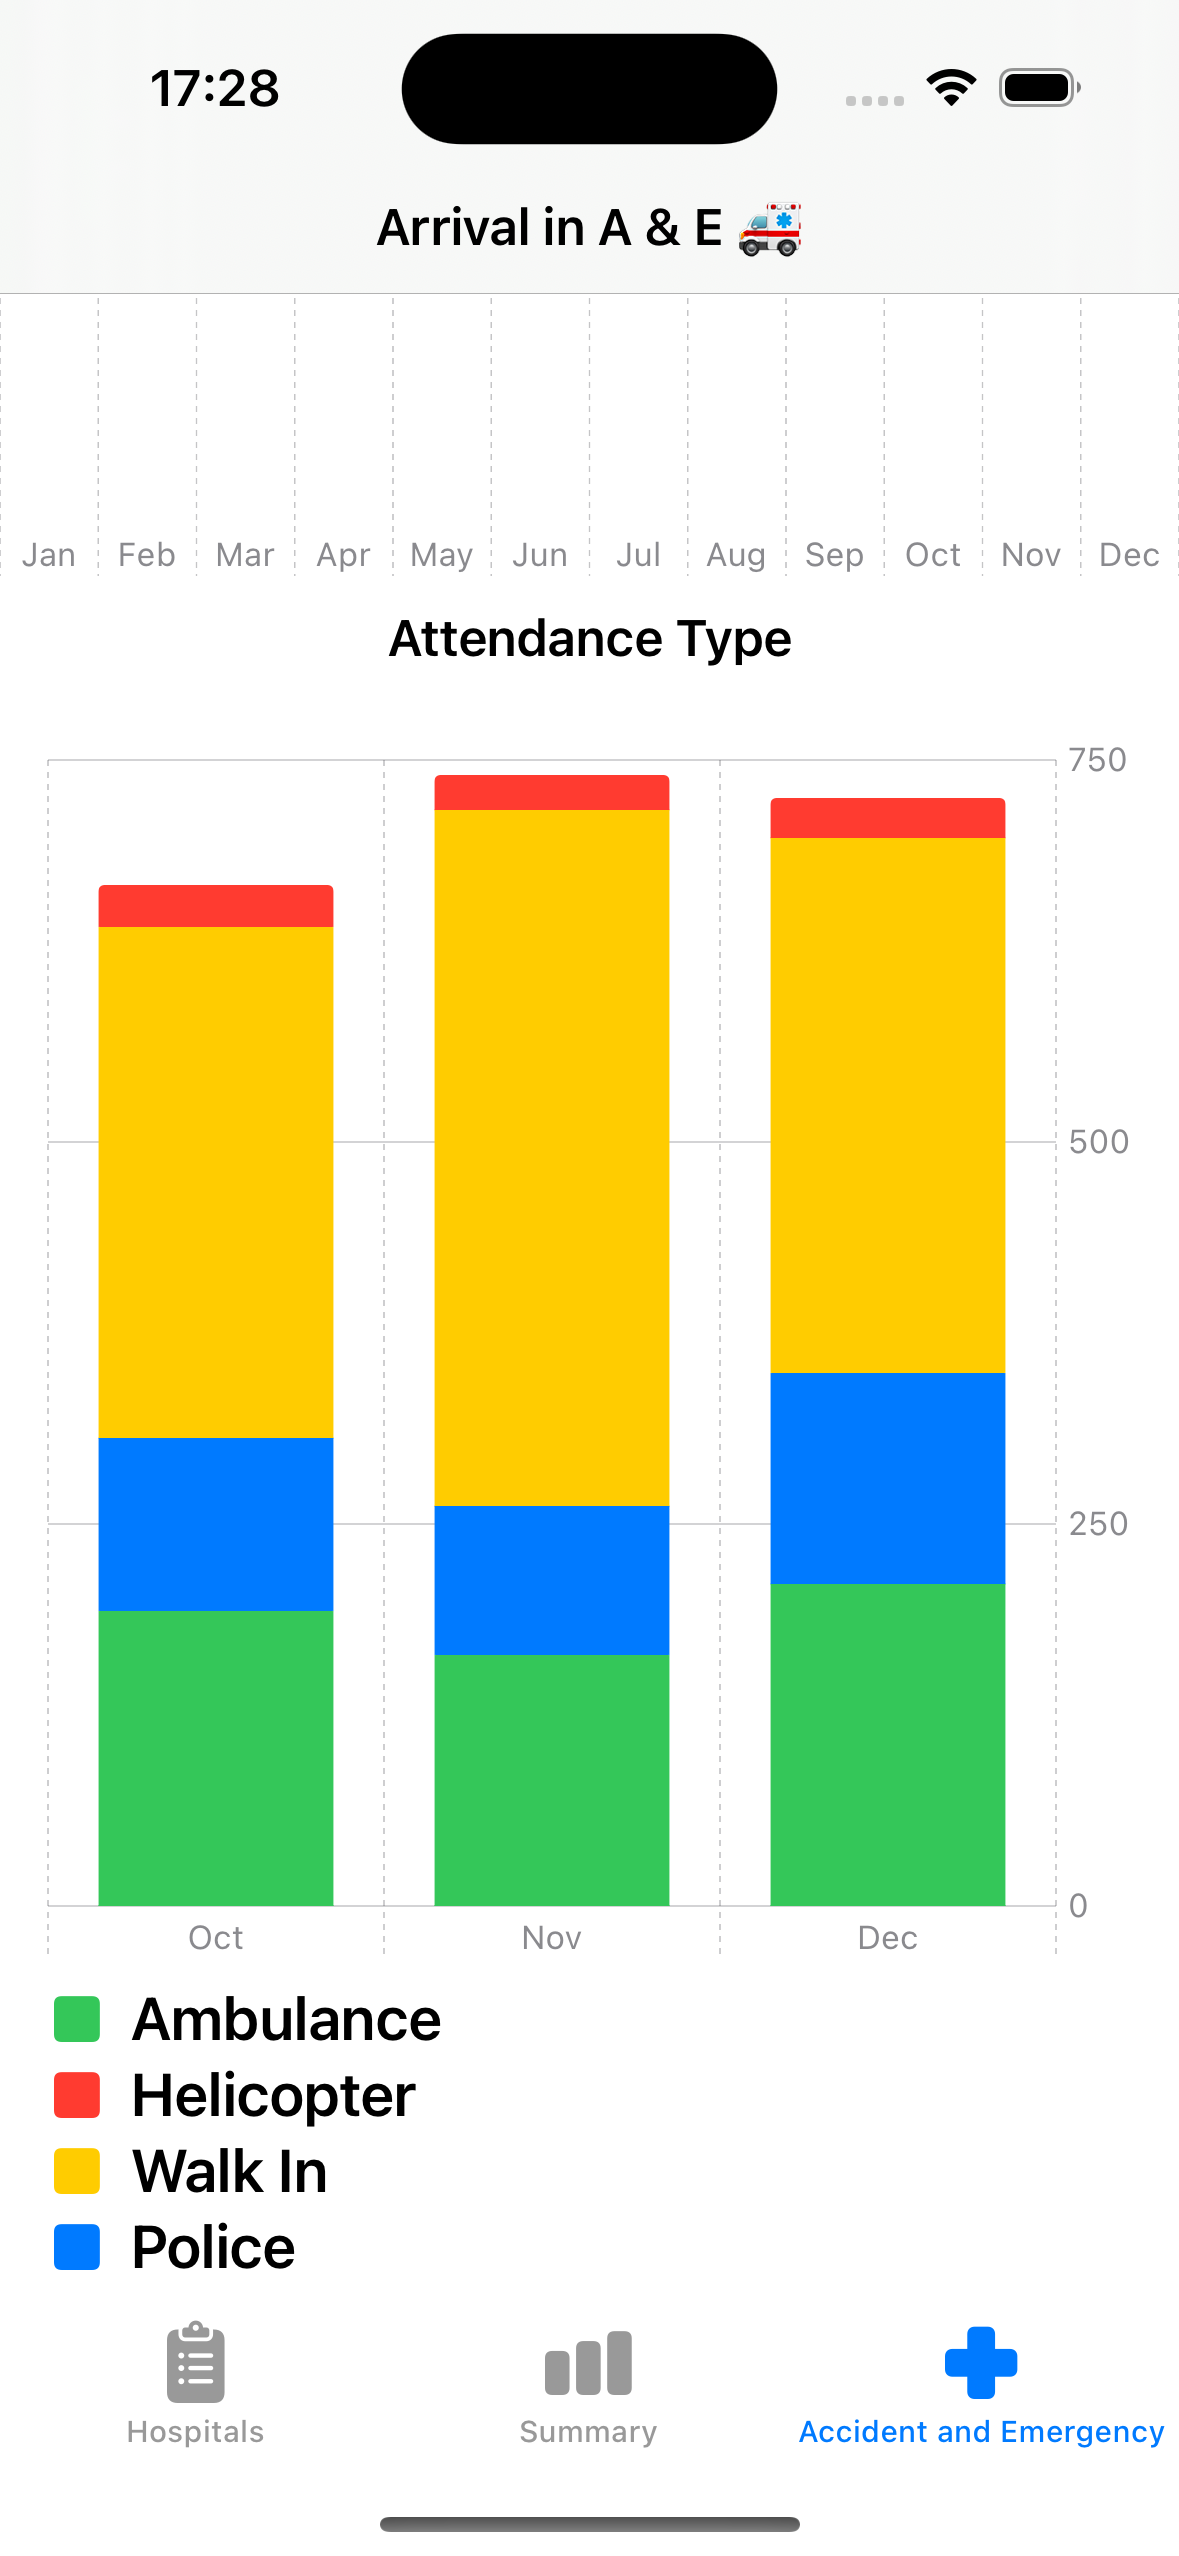
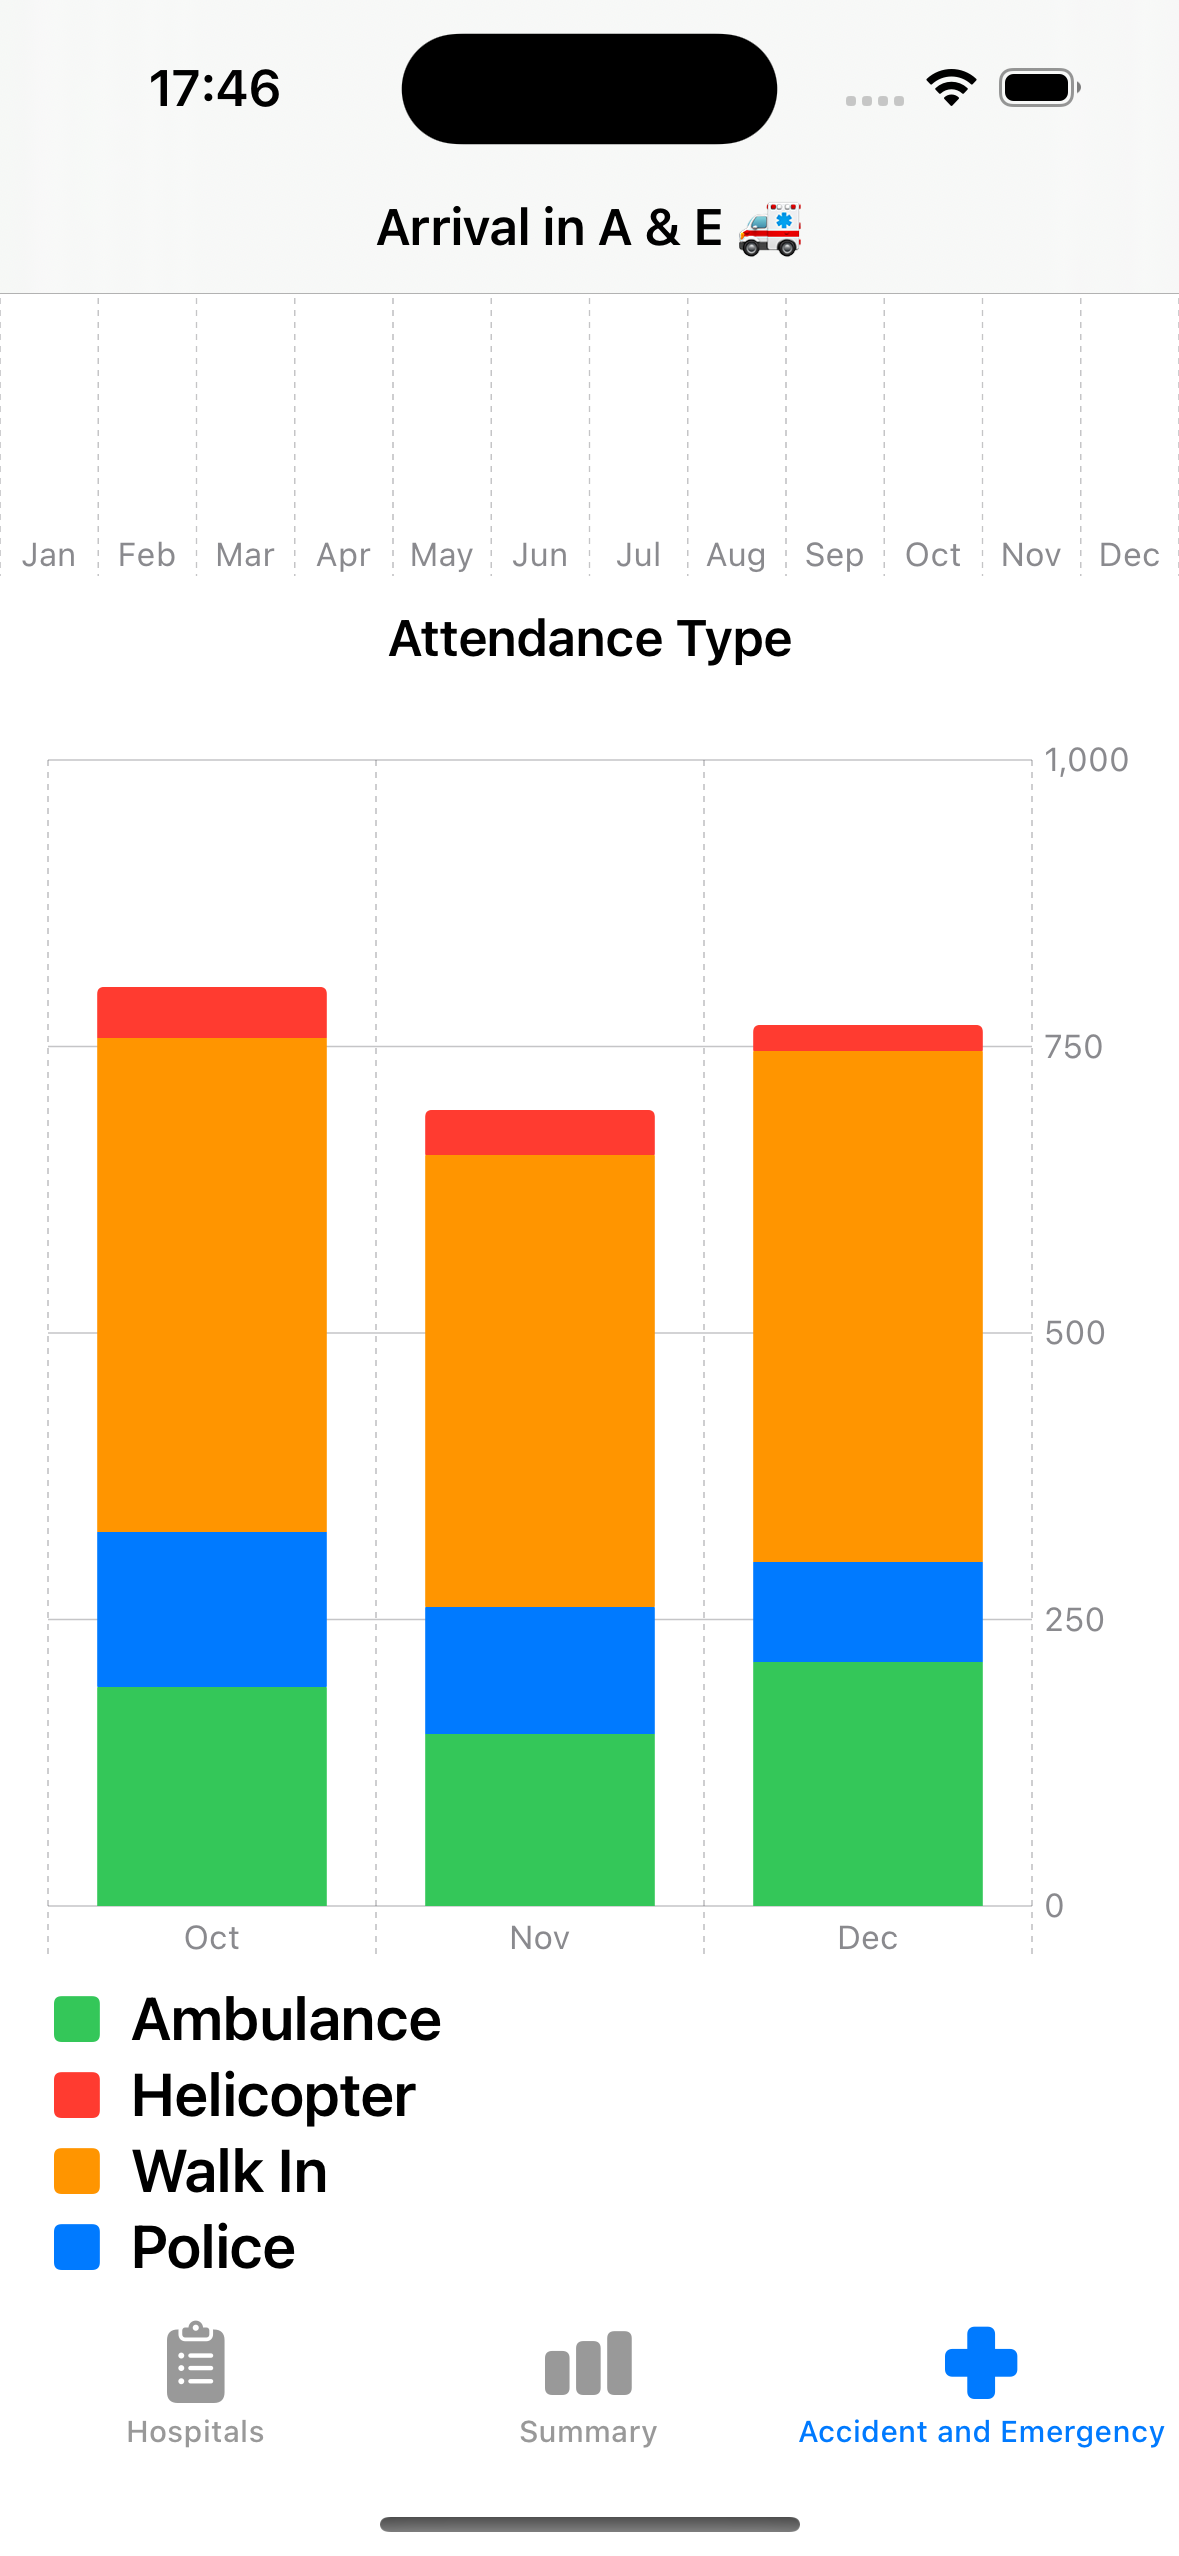
Change colour to orange

diff --git a/HospitalCharts/Accident and Emergency/Model/AccidentAndEmergency.swift b/HospitalCharts/Accident and Emergency/Model/AccidentAndEmergency.swift
@@ -40,7 +40,7 @@ enum AttendanceType: String, CaseIterable, Identifiable{
         case .helicopter:
             .red
         case .walkin:
-            .yellow
+            .orange
         case .police:
             .blue
         }
@@ -55,7 +55,7 @@ enum AttendanceType: String, CaseIterable, Identifiable{
         case .helicopter:
             "Red"
         case .walkin:
-            "Yellow"
+            "Orange"
         case .police:
             "Blue"
         }

diff --git a/HospitalCharts/Accident and Emergency/Views/AttendanceBarChartView.swift b/HospitalCharts/Accident and Emergency/Views/AttendanceBarChartView.swift
@@ -18,7 +18,7 @@ struct AttendanceBarChartView: View {
                 }
                 .chartLegend(.hidden)
                 .chartForegroundStyleScale([
-                    "Green": .green, "Red": .red, "Blue": .blue, "Yellow": .yellow,
+                    "Green": .green, "Red": .red, "Blue": .blue, "Orange": .orange,
                 ])
                 .frame(height: 400)
                 ChartLegend()
